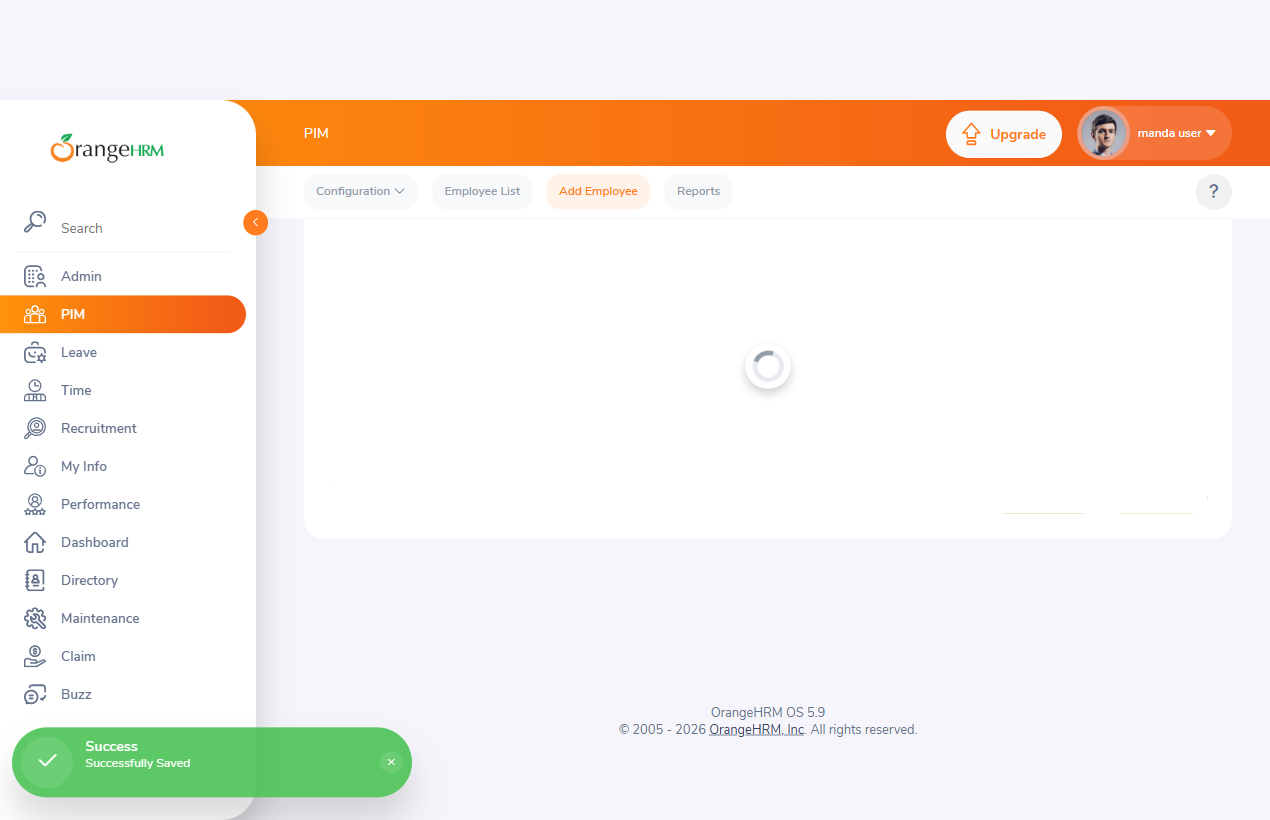
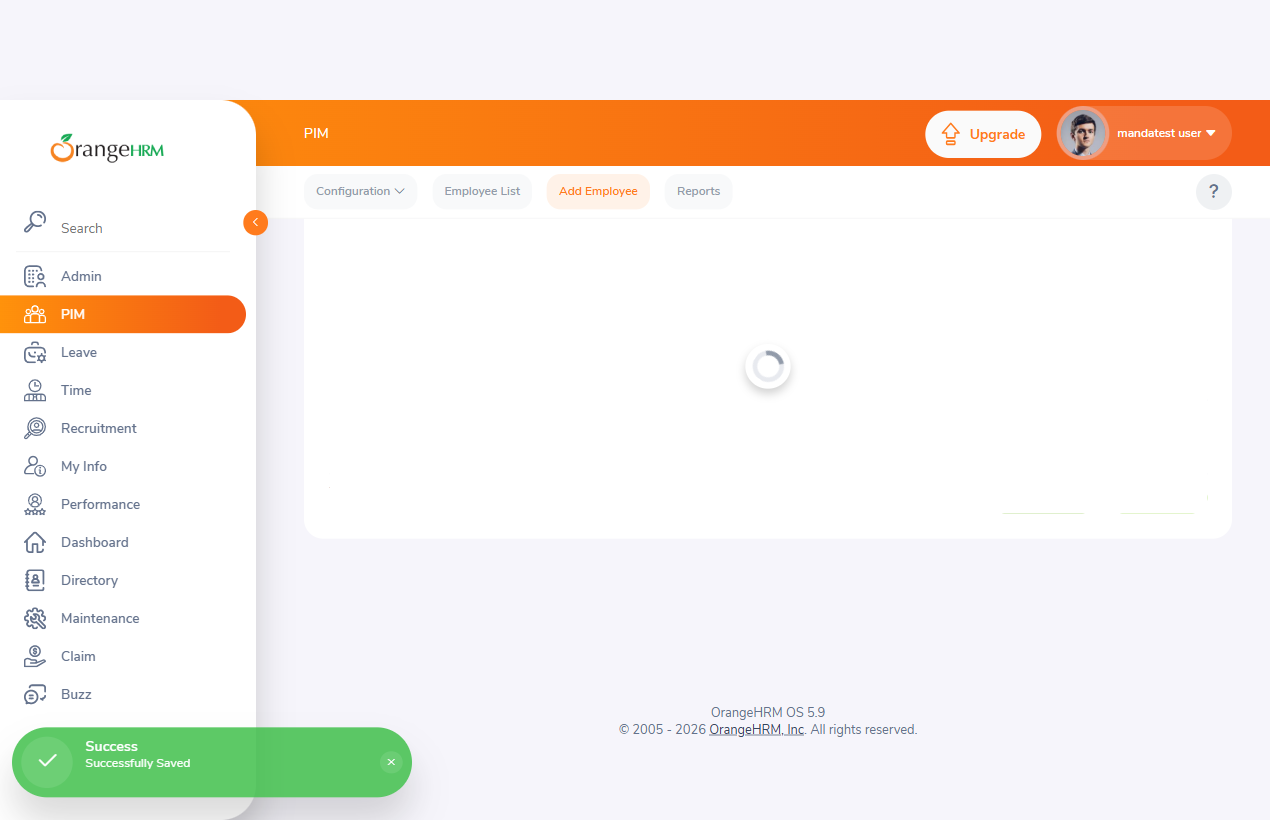
Removed duplicate login by using fixture for login in conftest

Changed region(s): [[0.7063, 0.122, 0.9213, 0.2134], [0.5835, 0.4268, 0.6142, 0.4573]]

diff --git a/tests/test_ui_independent_flow.py b/tests/test_ui_independent_flow.py
@@ -1,0 +1,99 @@
+import pytest
+from pages.login_page import Loginpage
+from playwright.sync_api import expect
+from pages.pim_page import Pim_page
+from pages.search_employee_page import Search_employee
+from pages.logout_page import Logout
+import json
+import logging
+
+logging.basicConfig(filename="logs/execution.log",level=logging.INFO,format="%(asctime)s - %(levelname)s - %(message)s")
+logging.info("FRAMEWORK STARTED")
+with open("data/login_data.json") as file:
+    users = json.load(file)
+with open("data/employee_data.json") as employ:
+    employees = json.load(employ)
+with open("data/search_employee.json")as emp:
+    employees_list = json.load(emp)
+@pytest.mark.parametrize("user",users)
+
+#Test Login
+def test_login(page,user):
+    login_page = Loginpage(page)
+    logging.info("We are in Login page")
+    try:
+        logging.info("Attempting Login")
+        login_page.login(user["username"],user["password"])
+        expect(page).to_have_url('https://opensource-demo.orangehrmlive.com/web/index.php/dashboard/index')
+        page.wait_for_timeout(3000)
+        page.screenshot(path="screenshots/login_success.png",full_page = True)
+        logging.info("Login Successfull")
+    except Exception as e:
+        print(f"Exception is {e}")
+        page.screenshot(path="screenshots/login_failed.png",full_page = True)
+        logging.info("Login Failed")
+        raise
+#Test Add_Employee
+def test_add_emplyee_details(logged_in_page):
+    # user = users[0]
+    employee = employees[0]
+    # login_page = Loginpage(logged_in_page)
+    add_details = Pim_page(logged_in_page)
+    logging.info("Loging to teh site")
+    # login_page.login(user["username"],user["password"])
+    # add_details.click_hamburger_menu()
+    # logging.info("Adding the user details to PIM")
+    try:
+        add_details.click_pim_option()
+        add_details.add_employee()
+        add_details.add_employee_details(employee["first_name"],employee["middle_name"],employee["last_name"],employee["employee_id"])
+        expect(logged_in_page.locator(".oxd-toast-content")).to_be_visible()
+        logged_in_page.screenshot(path = "screenshots/add_emploee_success.png",full_page=True)
+        # logging.info("Employee details added")
+    except Exception as e:
+        logged_in_page.screenshot("screenshots/add_emploee_failed.png",full_page=True)
+        print("Exception is",e)
+        logging.error("Adding employee details failed")
+        raise
+#Test search_Employee
+def test_search_employee(logged_in_page):
+    # logging.info("Loggin in to the site")
+    # login_page = Loginpage(logged_in_page)
+    # user = users[0]
+    employee = employees_list[0]
+    search_employee_details = Search_employee(logged_in_page)
+    # login_page.login(user["username"],user["password"])
+    try:
+        logging.info("Searching the employee")
+        search_employee_details.click_PIM()
+        search_employee_details.click_dropdown_button()
+        search_employee_details.fill_employee_name(employee["name"])
+        search_employee_details.search_button()
+        logging.info("Search complted and is successfull")
+        expect(logged_in_page.get_by_text("No Records Found")).not_to_be_visible()
+        logged_in_page.screenshot(path = "screenshots/search_employee_success.png",full_page=True)
+    except Exception as e:
+        logging.error(e)
+        expect(logged_in_page.get_by_text("info")).to_be_visible()
+        logged_in_page.screenshot(path = "screenshots/search_employee_fail.png",full_page=True)
+        raise
+#Test Logout
+def test_logout(logged_in_page):
+    # login_page = Loginpage(logged_in_page)
+    # user = users[0]
+    logout_page = Logout(logged_in_page)
+
+    # login_page.login(user["username"],user["password"])
+    try:
+        logout_page.click_dropdown()
+        logout_page.logout()
+        expect(logged_in_page).to_have_url("https://opensource-demo.orangehrmlive.com/web/index.php/auth/login")
+        logged_in_page.wait_for_timeout(3000)
+        logged_in_page.screenshot(path="screenshots/logout_success.png",full_page=True)
+    except Exception as e:    
+        logging.error(e)
+        logged_in_page.screenshot(path="screenshots/logout_fail.png",full_page=True)
+        raise
+
+    
+

diff --git a/conftest.py b/conftest.py
@@ -1,6 +1,10 @@
 import pytest
 from playwright.sync_api import sync_playwright
+from pages.login_page import Loginpage
+import json
 
+with open("data/login_data.json")as file:
+    users = json.load(file)
 @pytest.fixture
 def page():
     with sync_playwright() as p:
@@ -10,3 +14,9 @@ def page():
         page.goto("https://opensource-demo.orangehrmlive.com/web/index.php/auth/login")
         yield page
         browser.close()
+@pytest.fixture
+def logged_in_page(page):
+    user = users[0]
+    login_page = Loginpage(page)
+    login_page.login(user["username"],user["password"])
+    yield page
